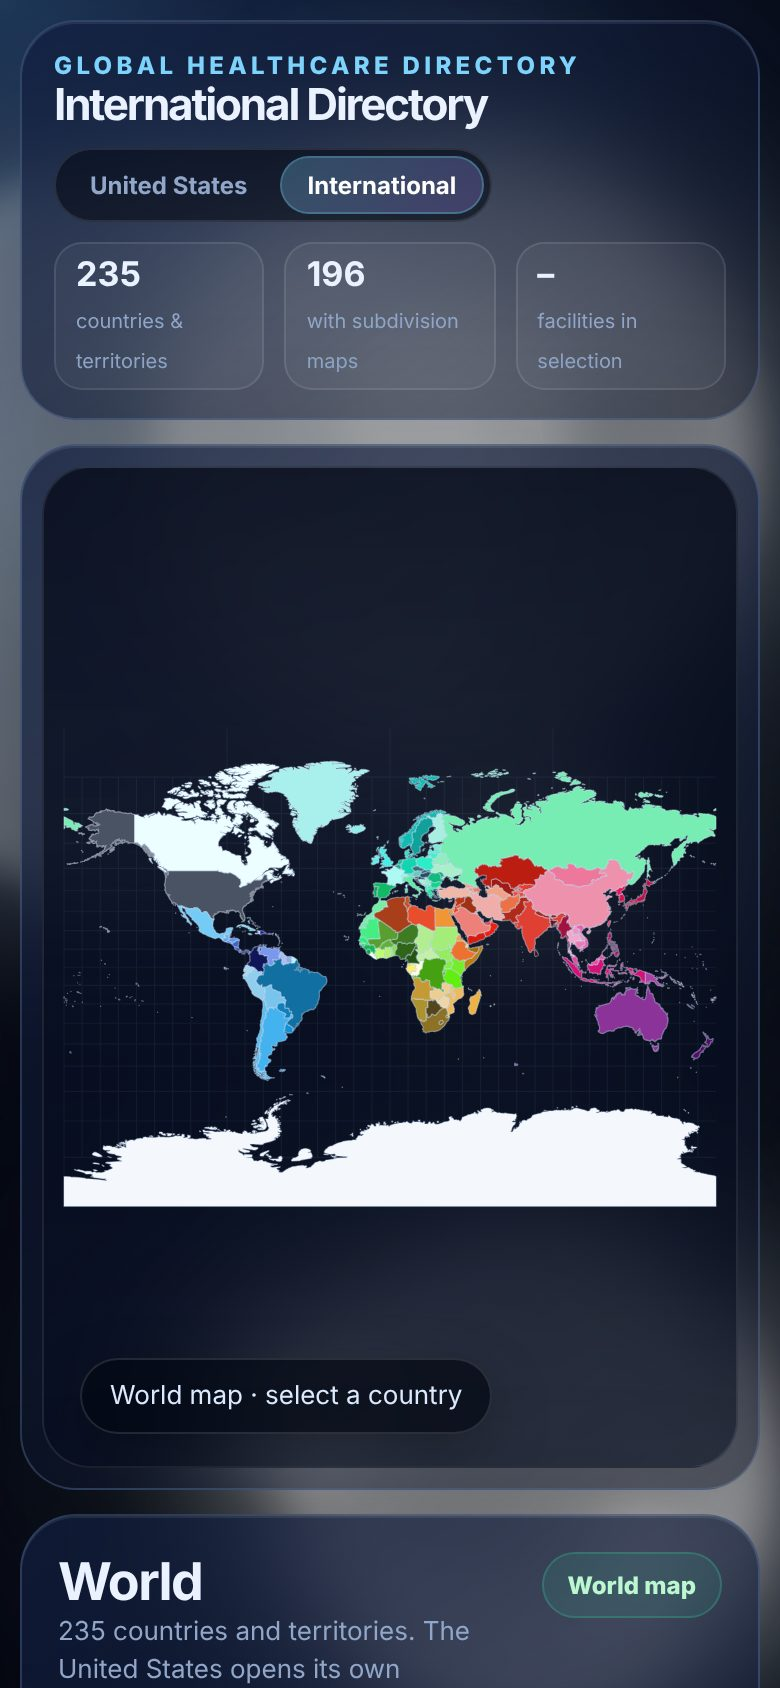
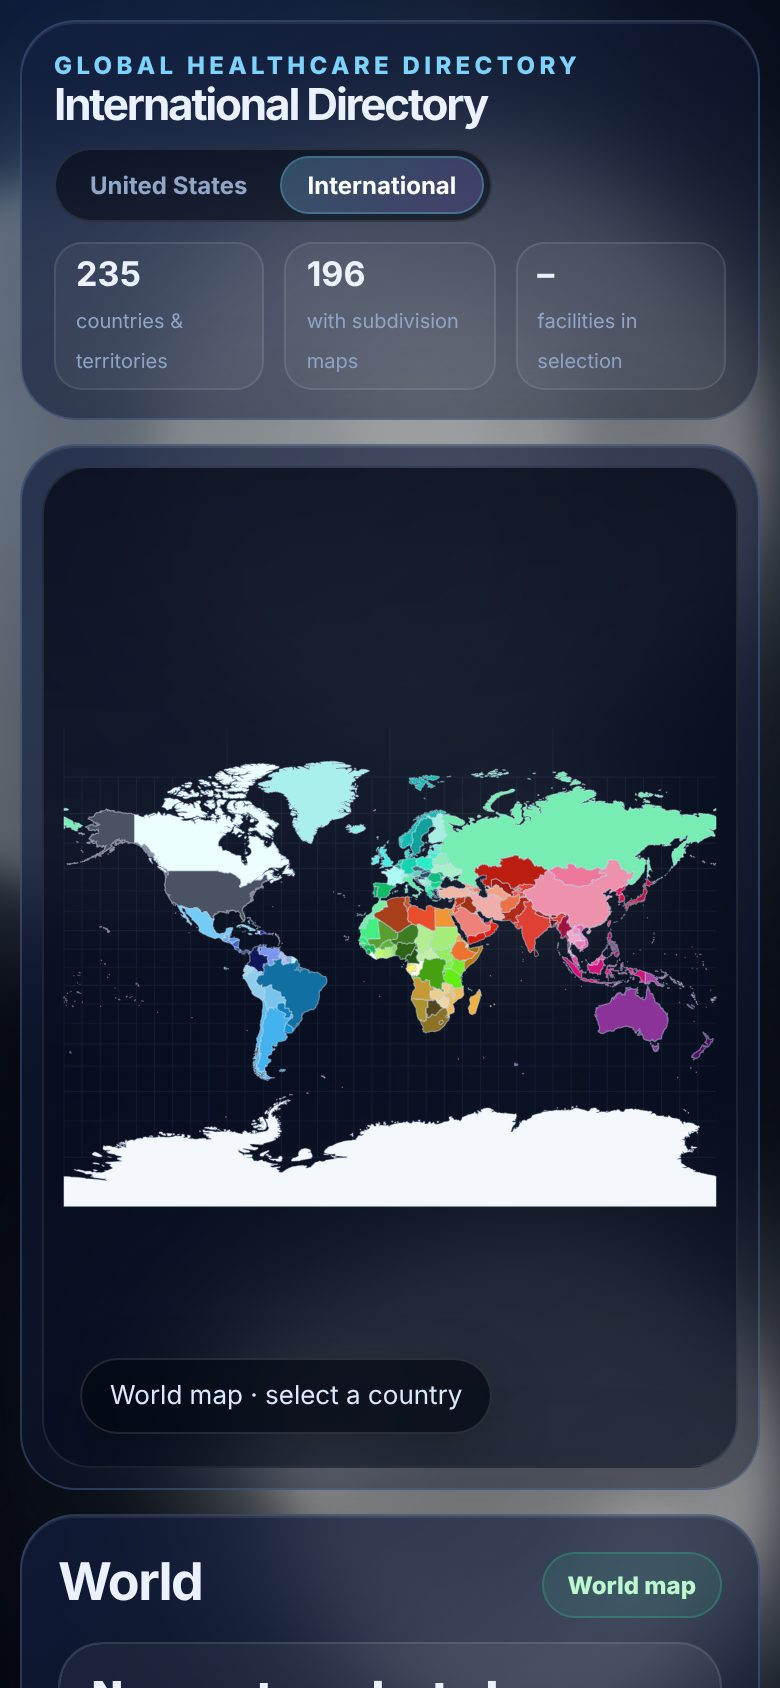
Remove breadcrumb/back bar and instruction text; click the sea to go back
- The map toolbar (breadcrumbs and "<- World" back button) is removed, so the
  map starts at the top of its panel in every view.
- The "Select a ... on the map or in the list" line (and other instructional
  sidebar text) is removed; the line under the title now appears only for
  loading, error, or no-subdivision notes.
- Navigation back: clicking empty sea goes up one level; Escape and the
  browser Back button still work. The map label says so.
- Browser tests updated (sea-click and Escape instead of breadcrumbs).

Claude-Session: https://claude.ai/code/session_01Qy7vVREGma9DSC7PB3AgeL

Changed region(s): [[0.0615, 0.955, 0.5231, 1.0], [0.5538, 0.955, 0.6154, 0.9858], [0.0, 0.0, 0.0615, 0.0308]]

diff --git a/assets/js/world-map.js b/assets/js/world-map.js
@@ -369,38 +369,13 @@ function updatePanel() {
   const colors = country ? (current ? regionStatesFor(chain.length - 1, current) : countryStates(country)) : null;
   $('panelTitle').textContent = current ? current.name : country ? country.name : 'World';
   $('modeBadge').textContent = current ? levelLabel(country, chain.length - 1) : country ? 'Country' : 'World map';
-  $('backBtn').hidden = !country;
-  $('mapToolbar').hidden = !country; // breadcrumbs/back only once a country is selected
-  $('backBtn').textContent = chain.length > 1 ? `← ${chain.at(-2).name}` : chain.length === 1 ? `← ${country.name}` : '← World';
   document.documentElement.style.setProperty('--glow', colors?.glow || '#69dcff');
   document.documentElement.style.setProperty('--cardGlow', colors?.glow || 'rgba(125,211,252,.8)');
-
-  const crumbs = $('breadcrumbs');
-  crumbs.replaceChildren();
-  const items = [['World', () => chooseWorld()]];
-  if (country) items.push([country.name, () => chooseCountry(country)]);
-  chain.forEach((f, i) => items.push([f.name, () => chooseRegion(i, f)]));
-  items.forEach(([label, action], i) => {
-    const li = document.createElement('li');
-    if (i === items.length - 1) {
-      const span = document.createElement('span');
-      span.setAttribute('aria-current', 'location');
-      span.textContent = label;
-      li.appendChild(span);
-    } else {
-      const button = document.createElement('button');
-      button.type = 'button';
-      button.textContent = label;
-      button.addEventListener('click', action);
-      li.appendChild(button);
-    }
-    crumbs.appendChild(li);
-  });
 
   let meta, label;
   const nextIndex = chain.length;
   if (!country) {
-    meta = `${plural(directoryCountries.length, 'country')} and territories. The United States opens its own directory.`;
+    meta = '';
     label = 'World map · select a country';
   } else if (state.geoLoading) {
     meta = `Loading ${levelLabel(country, nextIndex).toLowerCase()} boundaries…`;
@@ -409,16 +384,19 @@ function updatePanel() {
     meta = 'Boundary data could not be loaded. Facility records are still listed below.';
     label = `${current ? current.name : country.name} · boundaries unavailable`;
   } else if (country.levels[nextIndex]) {
-    meta = `Select a ${levelLabel(country, nextIndex).toLowerCase()} on the map or in the list.`;
+    meta = '';
     label = `${current ? current.name : country.name} · ${plural(regionsAt(nextIndex)?.length || 0, levelLabel(country, nextIndex).toLowerCase())}`;
   } else if (!country.levels.length) {
     meta = 'geoBoundaries publishes no subdivision boundaries for this country; showing national records.';
     label = `${country.name} · national view`;
   } else {
-    meta = 'Most detailed boundary level available for this area.';
+    meta = '';
     label = `${current.name} · ${levelLabel(country, chain.length - 1)}`;
   }
+  // Only loading, error and no-subdivision notes are shown; no instructional text.
   $('panelMeta').textContent = meta;
+  $('panelMeta').hidden = !meta;
+  if (country && !state.geoLoading) label += ' · click the sea or press Esc to go back';
   setMapLabel(label);
 
   const card = $('selectedCard');
@@ -693,7 +671,10 @@ let searchTimer = 0;
 $('search').addEventListener('input', () => { clearTimeout(searchTimer); searchTimer = setTimeout(() => reloadFacilities(), 300); });
 $('category').addEventListener('change', () => reloadFacilities());
 $('loadMore').addEventListener('click', () => reloadFacilities({append: true}));
-$('backBtn').addEventListener('click', goUp);
+// With no breadcrumb bar, clicking empty sea (not a country or region) goes up one level.
+svg.on('click.up', event => {
+  if (state.country && !event.target.closest?.('path.country:not(.hidden), path.region')) goUp();
+});
 $('regionFilter').addEventListener('input', renderRegionList);
 $('drawerClose').addEventListener('click', closeDrawer);
 document.addEventListener('keydown', e => {

diff --git a/assets/css/world.css b/assets/css/world.css
@@ -41,7 +41,6 @@ h1{font-size:clamp(28px,3.2vw,44px);line-height:.95;margin:6px 0 0;letter-spacin
 .stat b{font-size:22px;display:block}.stat span{font-size:11px;color:var(--muted)}
 
 .mapPanel{position:relative;overflow:hidden;padding:14px;display:flex;flex-direction:column;min-height:0}
-.mapToolbar{display:flex;gap:10px;align-items:center;flex-wrap:wrap;margin-bottom:10px;min-height:44px}
 .toolbarSpacer{flex:1}
 button,input,select{font:inherit}
 input,select{background:rgba(4,8,20,.7);color:var(--text);border:1px solid rgba(148,163,184,.22);outline:none;border-radius:16px;padding:11px 13px;box-shadow:inset 0 1px rgba(255,255,255,.05)}
@@ -52,11 +51,6 @@ button{border:1px solid rgba(125,211,252,.28);background:rgba(125,211,252,.08);c
 button:hover{box-shadow:0 0 0 1px rgba(125,211,252,.5),0 0 24px rgba(125,211,252,.2)}
 button:disabled{opacity:.6;cursor:progress}
 :focus-visible{outline:2px solid var(--hot);outline-offset:2px}
-.crumbs ol{list-style:none;display:flex;flex-wrap:wrap;gap:6px;margin:0;padding:0;align-items:center}
-.crumbs li{display:flex;align-items:center;gap:6px;font-size:13px;color:var(--muted)}
-.crumbs li+li:before{content:"›";color:rgba(255,255,255,.35)}
-.crumbs button{padding:7px 12px;border-radius:999px;font-size:13px}
-.crumbs [aria-current=location]{color:#fff;font-weight:800;padding:7px 4px}
 
 .mapShell{position:relative;flex:1 1 auto;min-height:0;border-radius:24px;overflow:hidden;background:linear-gradient(180deg,rgba(4,9,22,.74),rgba(8,15,34,.52));border:1px solid rgba(255,255,255,.09)}
 #mapSvg{width:100%;height:100%;display:block;touch-action:none}
@@ -148,7 +142,7 @@ h2{margin:0;font-size:26px;letter-spacing:-.03em}
 .header .stat span{font-size:11px}
 .header .directorySwitch{margin-top:0;flex:0 0 auto}
 .header .directorySwitch a{padding:6px 13px;font-size:12px}
-.mapToolbar[hidden]{display:none}
+#panelMeta[hidden]{display:none}
 .app{gap:12px;padding-top:14px}
 @media(max-width:1100px){.app{grid-template-columns:minmax(0,1fr) 340px}}
 @media(max-width:860px){

diff --git a/world.html b/world.html
@@ -30,11 +30,6 @@
     </header>
 
     <main class="mapPanel glass" aria-label="International map">
-      <div class="mapToolbar" id="mapToolbar" hidden>
-        <nav class="crumbs" aria-label="Breadcrumb"><ol id="breadcrumbs"></ol></nav>
-        <span class="toolbarSpacer"></span>
-        <button id="backBtn" type="button" hidden>← Back</button>
-      </div>
       <div class="mapShell" id="mapShell">
         <svg id="mapSvg" role="group" aria-label="World map. Select a country, then a region."></svg>
         <div class="mapLabel" id="mapLabel" aria-live="polite">Loading world boundaries…</div>
@@ -45,7 +40,7 @@
 
     <aside class="sidePanel glass" aria-labelledby="panelTitle">
       <div class="sideTitle">
-        <div><h2 id="panelTitle">World</h2><div class="muted" id="panelMeta">Choose a country to begin.</div></div>
+        <div><h2 id="panelTitle">World</h2><div class="muted" id="panelMeta" hidden></div></div>
         <span class="modeBadge" id="modeBadge">World map</span>
       </div>
       <section class="selectedCard" id="selectedCard" aria-live="polite"></section>
